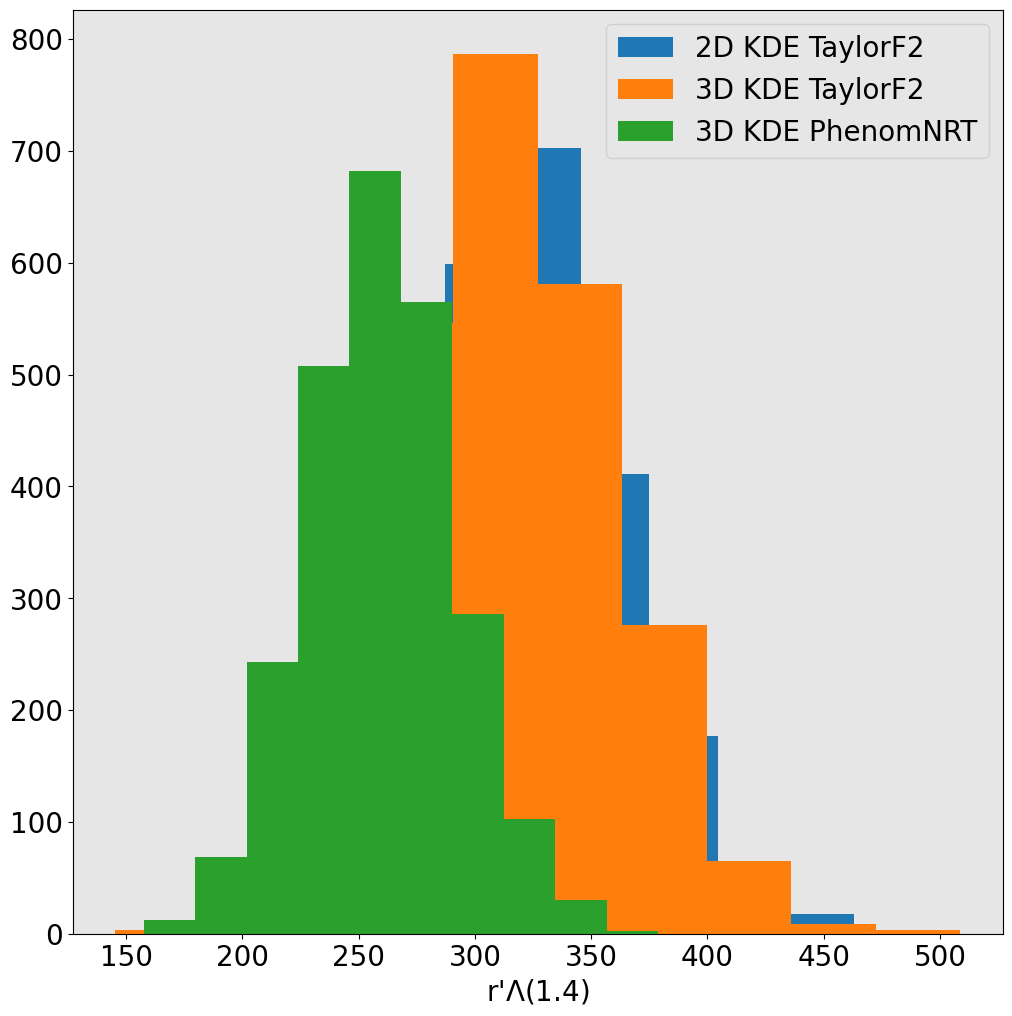
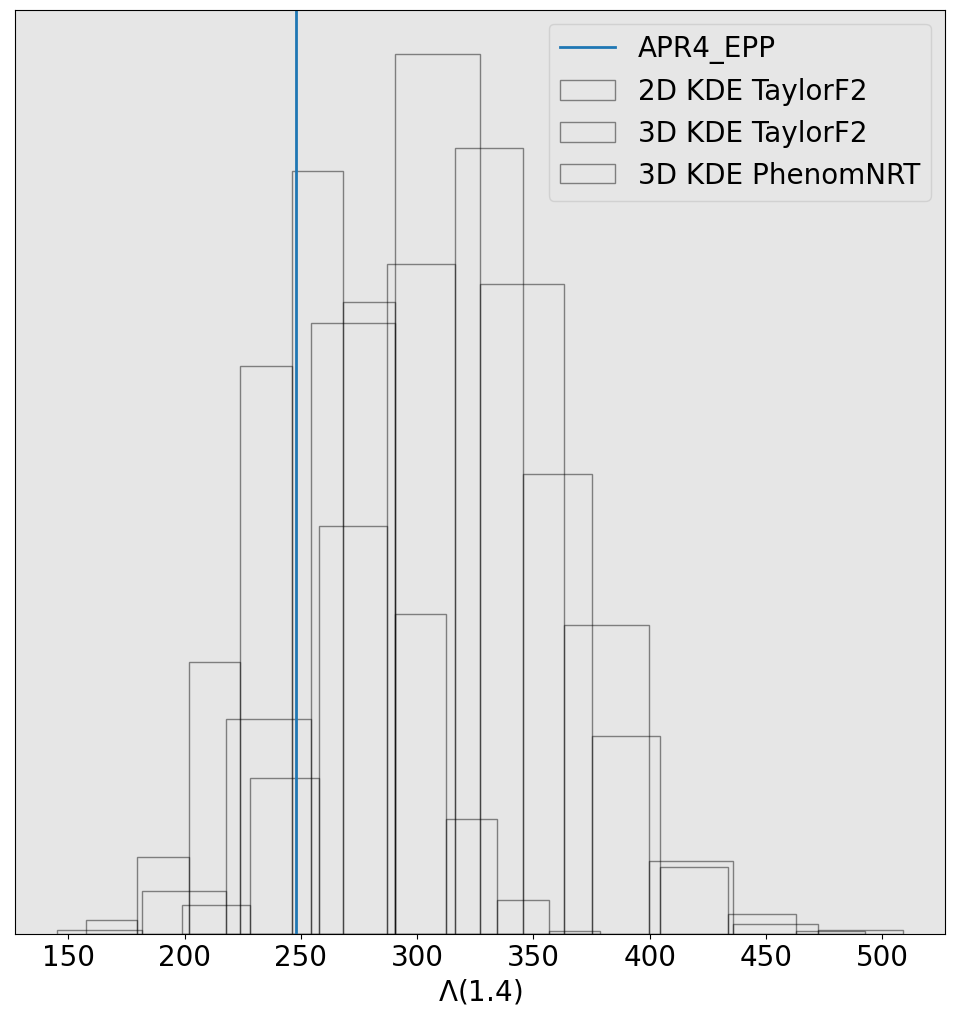
Lambda(1.4) histogram plot logic is complete. Time to perfect it!

diff --git a/year3/lastStretch/lambdaHist.py b/year3/lastStretch/lambdaHist.py
@@ -3,18 +3,11 @@ import lal
 import lalsimulation as lalsim
 import matplotlib.pyplot as plt
 
-def getLambda_parametrized():
-    # Recycled code from GWXtreme.
-    
-    plt.figure(figsize=(12,12))
-    plt.rc('font', size=20)
-    plt.rc('axes', facecolor='#E6E6E6', edgecolor='black')
-    plt.rc('xtick', direction='out', color='black')
-    plt.rc('ytick', direction='out', color='black')
-    plt.rc('lines', linewidth=2)
+labels = ["2D-KDE-TaylorF2", "3D-KDE-TaylorF2", "3D-KDE-PhenomNRT"]
 
-    labels = ["2D-KDE-TaylorF2", "3D-KDE-TaylorF2", "3D-KDE-PhenomNRT"]
-    Labels = ["2D KDE TaylorF2", "3D KDE TaylorF2", "3D KDE PhenomNRT"]
+def calcLambda_parametrized():
+    # Recycled code from GWXtreme.
+
     for ii in range(len(labels)):
 
         filename='data/constraints/{}_16simulationsInference1000samp_gammas.txt'.format(labels[ii])
@@ -33,11 +26,37 @@ def getLambda_parametrized():
             Lambda = (2/3)*kk/(cc**5)
             Lambdas.append(Lambda)
 
-        plt.hist(Lambdas, label=Labels[ii])
+        np.savetxt("data/lambdaHists/{}_16simulationsInference1000samp_Lambdas.txt".format(labels[ii]),np.array(Lambdas).T)
 
-    plt.xlabel("r'$\Lambda$(1.4)",fontsize=20)
+
+def plotLambda_parametrized(eosname="APR4_EPP"):
+
+    m=1.4
+    eos = lalsim.SimNeutronStarEOSByName(eosname)
+    fam = lalsim.CreateSimNeutronStarFamily(eos)
+
+    rr = lalsim.SimNeutronStarRadius(m*lal.MSUN_SI, fam)
+    kk = lalsim.SimNeutronStarLoveNumberK2(m*lal.MSUN_SI, fam)
+    cc = m*lal.MRSUN_SI/rr
+    eosLambda = (2/3)*kk/(cc**5)
+
+    plt.figure(figsize=(12,12))
+    plt.rc('font', size=20)
+    plt.rc('axes', facecolor='#E6E6E6', edgecolor='black')
+    plt.rc('xtick', direction='out', color='black')
+    plt.rc('ytick', direction='out', color='black')
+    plt.rc('lines', linewidth=2)
+    Labels = ["2D KDE TaylorF2", "3D KDE TaylorF2", "3D KDE PhenomNRT"]
+    for ii in range(len(Labels)):
+
+        filename='data/lambdaHists/{}_16simulationsInference1000samp_Lambdas.txt'.format(labels[ii])
+        Lambdas = np.loadtxt(filename).T
+
+        plt.hist(Lambdas, label=Labels[ii], alpha=0.45, fill=False)
+
+    plt.axvline(x=eosLambda, label=eosname)
+
+    plt.xlabel("$\Lambda$(1.4)",fontsize=20)
+    plt.yticks([])
     plt.legend()
-
     plt.savefig("plots/lambdaHists/16simulations1000samp_Lambdas.png", bbox_inches='tight')
-
-#np.savetxt("data/constraints/{}_GW170817inference_gammas.txt".format(label),samples)
